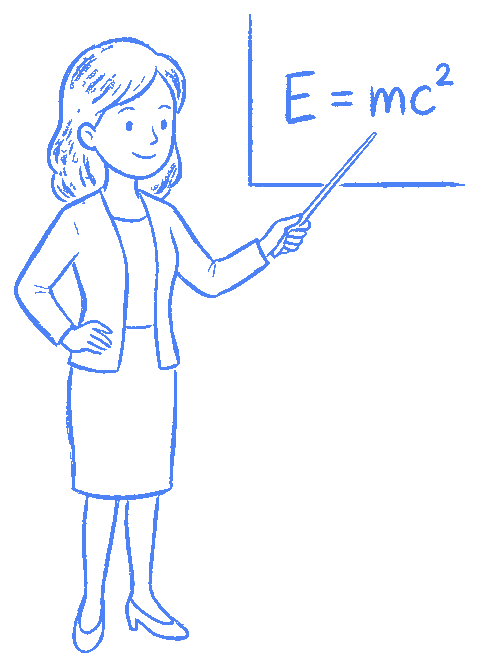
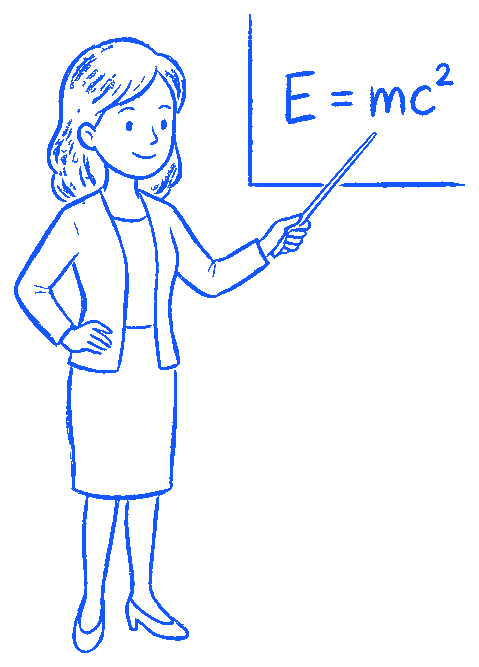
dash-v0.29 · halve observer figs (slides 5/7) + recolour teacher motif to AIS blue #1257FF
Observer .statefig.figtall width clamp halved toward the teacher-motif scale. Teacher PNG recoloured from off-brand #4C82F5 to the approved AIS blue #1257FF (Blue on Star) so it matches the presenter headers (already #1257FF). Story-only.

diff --git a/dashboard/src/index.html b/dashboard/src/index.html
@@ -420,7 +420,7 @@ svg{display:block;overflow:visible}
 .dscount{font-size:19px;font-weight:700;color:var(--ink);font-variant-numeric:tabular-nums;font-family:var(--display);margin-top:4px}
 /* list / statement + insight beats (margin figure PNGs) */
 .statefig{position:absolute;right:clamp(10px,3vw,40px);bottom:clamp(6px,2vw,24px);width:clamp(170px,24vw,280px);height:auto;object-fit:contain;z-index:0;opacity:.95;pointer-events:none}
-.statefig.figtall{width:clamp(120px,16vw,200px);right:clamp(14px,3vw,48px)}
+.statefig.figtall{width:clamp(60px,8vw,100px);right:clamp(14px,3vw,48px)}   /* observer figs (slides 5/7) at half size, closer to the teacher motif scale */
 .beat.on img.statefig{animation:figRise 1s cubic-bezier(.2,.8,.2,1) both}
 @keyframes figRise{from{opacity:0;transform:translateY(22px)}to{opacity:.95;transform:none}}
 .bl-list{display:flex;flex-direction:column;gap:12px;margin-top:18px;max-width:60ch;position:relative;z-index:2}
@@ -709,6 +709,7 @@ body.presenting .mast,body.presenting .themeico{display:none}
     <div class="panel" style="margin-top:14px">
       <div class="ey">Build history</div>
       <div class="vhist">
+        <div class="vrow"><span class="vtag">v0.29</span><span class="vnote">The observer illustration on the two Insights slides (5 and 7) is now half its previous size, closer to the teacher figure on the numbers slide. And the teacher figure, which used a slightly different blue, is recoloured to the approved AIS blue (#1257FF, Blue on Star) so it matches the presenter headers, which were already that blue. Story only.</span></div>
         <div class="vrow"><span class="vtag">v0.28</span><span class="vnote">Autoplay now loops: when the Story reaches the last slide it returns to the first and keeps playing. And fixed blank content after backgrounding the tab and returning (the data-missing, needs-refresh bug, the same as the R3 form): the dashboard now re-renders the current board when the tab is restored, so nothing stays blank and no manual refresh is needed. The open teacher and the story position are kept.</span></div>
         <div class="vrow"><span class="vtag">v0.27</span><span class="vnote">Fixed two Story bugs with one root cause. The freeze-safety cleanup that runs after each beat was wiping the beat’s custom inline styling, not only the animation leftovers, so the slide 4 and 6 headlines jumped from their small size to the large base size on first load, and the slide 4 to 7 headers reverted from green or terracotta to blue while playing. The cleanup now clears only the animation properties, so the custom size and colour are kept. It was never a font problem. The Observations board, which shares the same cleanup, is unaffected.</span></div>
         <div class="vrow"><span class="vtag">v0.26</span><span class="vnote">The Story view was rebuilt to the new illustrated design. The cover is a navy classroom scene, the headline numbers carry pencil motifs (book, teacher, progress), and the What is working, Where to focus and insight beats gain a margin figure, with drifting motes and a per-beat progress bar. Every number still comes live from Supabase (the deduped lessons, teachers, average and distribution) and the wording is unchanged from the Detail view. The data visuals (the dot-sort, gauge and diverging chart) stay. Coverage, Observations and the Detail view are untouched.</span></div>
@@ -743,7 +744,7 @@ body.presenting .mast,body.presenting .themeico{display:none}
 
   <div class="foot">
     <span>AIS Sharjah . Observation governance dashboard . demo build, login-less.</span>
-    <span><span class="badge" id="genBadge">snapshot</span> <span class="badge">Dashboard v0.28</span></span>
+    <span><span class="badge" id="genBadge">snapshot</span> <span class="badge">Dashboard v0.29</span></span>
   </div>
 </div>
 

diff --git a/CLAUDE.md b/CLAUDE.md
@@ -20,7 +20,7 @@ Live: https://rogerceaser21.github.io/Data-Representation/
 ## Dashboard build (Supabase) · active workstream, separate from the forms/deck
 
 A role-based **Supabase-backed dashboard** is being built to aggregate all teacher-assessment data for the principal, governors, and the SEF/SEAS review. It is not the forms and not the deck.
-- **BUILT + DEPLOYED (gated), iterated to v0.28 (2026-06-22); now reads LIVE from Supabase** in `dashboard/` (tag `dash-v0.28`). Live, StatiCrypt-gated (password `ais2026ais`): https://rogerceaser21.github.io/Data-Representation/dashboard/ . Snapshot board (landing) + Coverage + Observations drill-down + Settings; Cinematic shell, light default + dark, AIS star-field. **Scoring (final, do not regress): per observation = best skill (MIN); teacher overall = the average of those per-observation scores** (sessions 6,6,5,5 -> 5.5). v0.7 reworked the Teacher-board session card (approved preview `dashboard-previews/card-A-revised.html`): two collapsible titled columns (Inspection details, Skills observed), full-width Spectrum, a condensed action bar (observed teacher name + centred Observation Notes toggle + text-only link to the locked R3 record, June submissions only since February has no token), and an expander for notes/strengths/areas-to-develop. The snapshot now carries notes/strengths/weakness/source/token. v0.8 refined the card: any click selects it; the Inspection/Skills arrows sit beside their titles, bob, and open BOTH columns together; the session-card Spectrum is a full-width HTML/CSS bar at a fixed thin height (`specHTML`/`animSpec`; a width-scaled SVG read as fat) with judgement words at the body-text size; the column headers match the Observation Notes header. **v0.9 removed the two top centerpiece cards** and merged the Teacher-board top graphs into the All-observations card: the Spectrum and the old All bar were the SAME data (one dot per observation at its best score), so they are now one full-width HTML/CSS Spectrum (`specHTML`, score-coloured dots + average flag + selected-session ring) inside the All card, with the gauge beside it. The gauge is renamed **Student Progress** and shows ONLY the Progress judgement (criterion `r3_02`): rim dots are each observation's Progress score, the fill/word is the teacher-wide average (`progScore`/`progAvg`); it is built once in `renderTeacher` and **never recalculated on session select** (always reads ALL). Selecting a session only rings its dot on the Spectrum; the gauge is untouched. `buildSpec`/`buildObsRamp`/`SEL_COLOR` and the dead `.tcard`/`.cpstage`/`.oramp` CSS were removed. Individual session cards unchanged. **v0.10** tidied the All card (the inspector legend and the Average-of-observations word removed, the Student Progress label bold, the gauge pulled up beside the Spectrum) AND fixed the freeze bug *properly*: v0.9's GSAP-from-invisible entrances plus a `finalizeViz` rescue could still strand the dots/gauge blank after a backgrounded/bfcached tab, so the Spectrum (`.ospec`/`.osbar`) and gauge (`#svgArc`) entrances are now CSS keyframe animations on a resting-visible base. CSS animations run on the real-time document timeline (NOT requestAnimationFrame), so they always complete to the final visible state whether or not the tab was painted; `animSpec` and `finalizeViz` were removed. **Do not reintroduce a from-invisible (`scale:0`/`opacity:0`) JS entrance on these viz elements; keep the resting state visible.** **v0.11** balanced the All card: "All observations" and "Student Progress" are now matched bold headers (`.ey-bold`, in `.allhead`); the gauge `viewBox` is cropped+centred on the circle and `.allmain` uses `align-items:center` so the gauge circle's middle lines up with the Spectrum bar's middle (the Spectrum dots are absolutely positioned, so the bar never moves and the alignment holds regardless of dot stacking); the card height is trimmed. **v0.12-v0.21 (2026-06-18):** v0.13 made the All card symmetric with a **Teaching gauge** (criterion `r3_05`, mirror of the Progress gauge) right of the Spectrum (`buildArc(t,svgId,scoreFn,avgFn,mirror)`); v0.14-v0.15 restyled the All-card Spectrum as the **SEAS scale** (one seamless bar, six swatches + words, no numbers, dots reserve height, bottom-aligned with the gauges; a `segmented` flag on `specHTML` scopes it to the All card, session cards keep the gradient bar); v0.16-v0.17 renamed **Teacher -> Observations** and moved the teacher search off Coverage; v0.18 added **hash routing** (`#teachers`/`#settings`); v0.19 made **R3 Obs a fan-out menu** (Teacher Level = the working search; Grade/Department + School Level = front-end placeholders); v0.20 removed the masthead Stars/theme buttons (kept in Settings) + added a floating top-right sun/moon theme toggle; **v0.21 wired LIVE Supabase read** (see build chain). **v0.22 (2026-06-19) added the Snapshot board, now the LANDING view** (`#v-snapshot`, first pill, default no-hash route; Coverage moved to `#coverage`): a governance at-a-glance of the June R3 sweep (`SNAP_ROUND='R3 June 26'`, scoped to that one round) with a **Primary & Kindy / Secondary / Compare** toggle (`snapPhase`). Per phase it shows lessons observed, teachers seen, average progress (best Progress `r3_02` per teacher then averaged across teachers, best-evidence-wins) on a ramp gauge + a six-point distribution histogram, a What-is-working / Where-to-focus-next summary, and **three insights each** (the baked `NARR` constant, a human synthesis of the round's written strengths + areas-to-develop); Compare adds a diverging PK-vs-Secondary distribution chart + three cross-phase insights. All numbers compute LIVE from `D` via `snapAgg()` (works on baked + live). **`teachers.section` (subschool: kindy/primary/secondary) is now POPULATED in Supabase** from the R3 Sheet Teachers tab (Kindy/Primary/Secondary booleans) via the re-runnable tool `~/AIS-Data-Dashboard/db/set_sections.mjs`, so the phase split is live data, not hard-coded; the export/RPC/`shapeSnapshot` already carried `section`, it was just unpopulated. `data.js` rebaked to match. Verified end-to-end in a browser (both themes, all three modes, through the StatiCrypt gate; numbers verified vs SQL). **v0.23 (2026-06-19) corrected the Snapshot to count distinct LESSONS, not raw form submissions:** most June lessons were co-observed by two inspectors who each filed a form, so the raw 167 rows over-counted. `snapAgg` now collapses a teacher's June submissions into lessons by teacher + date + normalised subject (`lessonSubjKey` via `resolveArea`, folding variants like "Music"/"QCE Music In Practice"), best score winning (min) across co-observers. Corrected counts: overall **109 lessons / 103 teachers**, Primary & Kindy **47/45**, Secondary **62/58**; Secondary **Very Weak = 4** (the v0.22 board showed 8, which was 4 lessons each filed by two inspectors), Outstanding 6. Average ratings + teacher counts are UNCHANGED (best-per-teacher is invariant to duplicates: PK 3.19, Secondary 3.24). The dedupe is ISOLATED to the Snapshot (`snapAgg` + `lessonSubjKey`; it READS but never mutates `D.teachers[].observations`), so per Igor's instruction the **Observations board is untouched** and Coverage is unchanged; a `snapReady` gate fixes the load-order TDZ introduced by `snapAgg` now using `resolveArea`. tag `dash-v0.23`. **v0.24 (2026-06-19) made the Snapshot an animated STORY by default** (the Snapshot is also now the dashboard LANDING page; login always lands there, stale hash cleared). The Snapshot has a **Story | Detail** toggle (`snapView`): Story is a beat-by-beat narrative on a `.stage` (cover, scale with custom Teacher figure-cluster + Observations lens SVGs, progress gauge+distribution, what-is-working bullets + insights, where-to-focus bullets + insights; Compare has its own 4 beats ending on the diverging chart), built to the `look-cinematic.html` motion grammar via a slide engine (`renderStory`/`gotoBeat`/`animateBeat`/`phaseBeats`/`compareBeats`); it **auto-plays with play/pause, prev/next + arrow keys, beat dots, full-screen Present, and a persisted Auto-play on/off switch in Settings** (`ais-snap-autoplay`). **Detail is the PREVIOUS card view, kept verbatim as v1**, one click away (`renderDetail`). Per Igor: this is all isolated to the Snapshot (the slide engine reads but never mutates `D.teachers[].observations`); **Coverage and Observations stay untouched, and Coverage is "designed, do not touch".** rAF-safe (active beat shown via a CSS `.on` class at final state; entrances are `immediateRender:false` + `settle()`). **v0.25 (2026-06-20) rebuilt the Story so the DATA carries the animation, not illustrations** (Igor rejected v0.24's hand-drawn SVGs and invented narration). Removed the teacher-cluster + eye SVGs. Hero motion is now a **SEAS dot-sort** (`renderDotSort`): each lesson is a dot that flies in (CSS keyframes, rAF-safe) and sorts onto the six-point scale by colour, beside the gauge sweep; the numbers beat is big count-ups; the cover uses a generated AIS-toned image (`dashboard/assets/snapshot-cover.jpg`, public, non-sensitive). **The beats use ONLY the V1 (Detail) wording + stats verbatim** (the V1 section labels, evidence lines, summaries, bullets, insights), no invented copy. Beats per phase: cover, numbers, student-progress (dot-sort + gauge), what-is-working bullets + its insights, where-to-focus bullets + its insights; Compare: cover, numbers, distribution (diverging), insights. Controls + Detail(v1) + scope unchanged from v0.24. Built consulting the **frontend-slides** skill. (Note: DesignSync/"design-sync" is a publish-to-claude.ai/design sync tool, NOT a design generator; the look is hand-built to dashboard-aesthetic. Bespoke decorative SVG illustration is a known weak spot, hence the dot-sort + generated image approach.) **v0.26 (2026-06-21) restyled the Story to Igor's illustrated Claude-design rework** (stitched into the master, wired to LIVE data): a navy classroom cover, recoloured pencil-PNG motifs on the numbers tiles, quiet margin figures on the statement + insight beats, drifting motes, a per-beat progress bar, and big colour-coded presenter headers. It uses ONLY the live `snapAgg(phase)` numbers (the standalone's frozen `AGG` was dropped) + the existing baked `NARR` wording (V1 verbatim); the dot-sort / gauge / diverging data visuals are kept; the gauge stays freeze-safe (no from-empty GSAP sweep). The Fonts link is now `display=block` to kill the serif headline flash. Isolated to the Snapshot Story: Detail (v1), Coverage and Observations untouched. (WIP checkpoint: Igor has further design changes queued for 2026-06-22; moving the insight TEXT into Supabase, vs the baked `NARR`, is a deliberate next step, not done here.) **v0.27 (2026-06-22) fixed two reported Story bugs with one root cause:** the freeze-safety helper `settle()` used `clearProps:'all'`, which wiped the beats' hand-authored inline styles (not just GSAP's props) about 1.9s after each beat, so the `.beat-h` summary jumped from its inline `clamp(18-25px)` to the base 42px (the first-load small-to-big reflow on slides 4/6) and the `.beat-k` kicker reverted from green/terracotta to base blue (the in-play colour change on slides 4-7). It read as first-load-only because the strip is permanent until re-render. Fix: `settle()` now clears ONLY `transform,opacity,filter` (the props GSAP animates), preserving freeze-safety AND the author inline size/colour; NOT a webfont issue (display=block/preload could never fix it). Verified the Story (both themes) + the Observations board (which shares `settle()`) with no console errors (tag `dash-v0.27`). **v0.28 (2026-06-22)** made Story autoplay LOOP (wraps to beat 0 at the end via `scheduleNext`) and fixed the "background the tab, come back, some viz blank, needs refresh" bug (same class as the R3 form bfcache issue, hard rule 12): a new `repaintRestore()` re-renders the CURRENT board at final state on `pageshow`(persisted) + `visibilitychange`->visible, preserving the open teacher + the story position (mirrors `loadLive`'s re-render set; no state reset, no reload). Verified a deliberately blanked teacher gauge repaints on restore (tag `dash-v0.28`). Login-less for the demo (the gate is the soft lock); @ais.ae SSO + per-role RLS, and a general multi-round selector for the other boards (Coverage/Observations still pool all rounds), are the next steps.
+- **BUILT + DEPLOYED (gated), iterated to v0.29 (2026-06-22); now reads LIVE from Supabase** in `dashboard/` (tag `dash-v0.29`). Live, StatiCrypt-gated (password `ais2026ais`): https://rogerceaser21.github.io/Data-Representation/dashboard/ . Snapshot board (landing) + Coverage + Observations drill-down + Settings; Cinematic shell, light default + dark, AIS star-field. **Scoring (final, do not regress): per observation = best skill (MIN); teacher overall = the average of those per-observation scores** (sessions 6,6,5,5 -> 5.5). v0.7 reworked the Teacher-board session card (approved preview `dashboard-previews/card-A-revised.html`): two collapsible titled columns (Inspection details, Skills observed), full-width Spectrum, a condensed action bar (observed teacher name + centred Observation Notes toggle + text-only link to the locked R3 record, June submissions only since February has no token), and an expander for notes/strengths/areas-to-develop. The snapshot now carries notes/strengths/weakness/source/token. v0.8 refined the card: any click selects it; the Inspection/Skills arrows sit beside their titles, bob, and open BOTH columns together; the session-card Spectrum is a full-width HTML/CSS bar at a fixed thin height (`specHTML`/`animSpec`; a width-scaled SVG read as fat) with judgement words at the body-text size; the column headers match the Observation Notes header. **v0.9 removed the two top centerpiece cards** and merged the Teacher-board top graphs into the All-observations card: the Spectrum and the old All bar were the SAME data (one dot per observation at its best score), so they are now one full-width HTML/CSS Spectrum (`specHTML`, score-coloured dots + average flag + selected-session ring) inside the All card, with the gauge beside it. The gauge is renamed **Student Progress** and shows ONLY the Progress judgement (criterion `r3_02`): rim dots are each observation's Progress score, the fill/word is the teacher-wide average (`progScore`/`progAvg`); it is built once in `renderTeacher` and **never recalculated on session select** (always reads ALL). Selecting a session only rings its dot on the Spectrum; the gauge is untouched. `buildSpec`/`buildObsRamp`/`SEL_COLOR` and the dead `.tcard`/`.cpstage`/`.oramp` CSS were removed. Individual session cards unchanged. **v0.10** tidied the All card (the inspector legend and the Average-of-observations word removed, the Student Progress label bold, the gauge pulled up beside the Spectrum) AND fixed the freeze bug *properly*: v0.9's GSAP-from-invisible entrances plus a `finalizeViz` rescue could still strand the dots/gauge blank after a backgrounded/bfcached tab, so the Spectrum (`.ospec`/`.osbar`) and gauge (`#svgArc`) entrances are now CSS keyframe animations on a resting-visible base. CSS animations run on the real-time document timeline (NOT requestAnimationFrame), so they always complete to the final visible state whether or not the tab was painted; `animSpec` and `finalizeViz` were removed. **Do not reintroduce a from-invisible (`scale:0`/`opacity:0`) JS entrance on these viz elements; keep the resting state visible.** **v0.11** balanced the All card: "All observations" and "Student Progress" are now matched bold headers (`.ey-bold`, in `.allhead`); the gauge `viewBox` is cropped+centred on the circle and `.allmain` uses `align-items:center` so the gauge circle's middle lines up with the Spectrum bar's middle (the Spectrum dots are absolutely positioned, so the bar never moves and the alignment holds regardless of dot stacking); the card height is trimmed. **v0.12-v0.21 (2026-06-18):** v0.13 made the All card symmetric with a **Teaching gauge** (criterion `r3_05`, mirror of the Progress gauge) right of the Spectrum (`buildArc(t,svgId,scoreFn,avgFn,mirror)`); v0.14-v0.15 restyled the All-card Spectrum as the **SEAS scale** (one seamless bar, six swatches + words, no numbers, dots reserve height, bottom-aligned with the gauges; a `segmented` flag on `specHTML` scopes it to the All card, session cards keep the gradient bar); v0.16-v0.17 renamed **Teacher -> Observations** and moved the teacher search off Coverage; v0.18 added **hash routing** (`#teachers`/`#settings`); v0.19 made **R3 Obs a fan-out menu** (Teacher Level = the working search; Grade/Department + School Level = front-end placeholders); v0.20 removed the masthead Stars/theme buttons (kept in Settings) + added a floating top-right sun/moon theme toggle; **v0.21 wired LIVE Supabase read** (see build chain). **v0.22 (2026-06-19) added the Snapshot board, now the LANDING view** (`#v-snapshot`, first pill, default no-hash route; Coverage moved to `#coverage`): a governance at-a-glance of the June R3 sweep (`SNAP_ROUND='R3 June 26'`, scoped to that one round) with a **Primary & Kindy / Secondary / Compare** toggle (`snapPhase`). Per phase it shows lessons observed, teachers seen, average progress (best Progress `r3_02` per teacher then averaged across teachers, best-evidence-wins) on a ramp gauge + a six-point distribution histogram, a What-is-working / Where-to-focus-next summary, and **three insights each** (the baked `NARR` constant, a human synthesis of the round's written strengths + areas-to-develop); Compare adds a diverging PK-vs-Secondary distribution chart + three cross-phase insights. All numbers compute LIVE from `D` via `snapAgg()` (works on baked + live). **`teachers.section` (subschool: kindy/primary/secondary) is now POPULATED in Supabase** from the R3 Sheet Teachers tab (Kindy/Primary/Secondary booleans) via the re-runnable tool `~/AIS-Data-Dashboard/db/set_sections.mjs`, so the phase split is live data, not hard-coded; the export/RPC/`shapeSnapshot` already carried `section`, it was just unpopulated. `data.js` rebaked to match. Verified end-to-end in a browser (both themes, all three modes, through the StatiCrypt gate; numbers verified vs SQL). **v0.23 (2026-06-19) corrected the Snapshot to count distinct LESSONS, not raw form submissions:** most June lessons were co-observed by two inspectors who each filed a form, so the raw 167 rows over-counted. `snapAgg` now collapses a teacher's June submissions into lessons by teacher + date + normalised subject (`lessonSubjKey` via `resolveArea`, folding variants like "Music"/"QCE Music In Practice"), best score winning (min) across co-observers. Corrected counts: overall **109 lessons / 103 teachers**, Primary & Kindy **47/45**, Secondary **62/58**; Secondary **Very Weak = 4** (the v0.22 board showed 8, which was 4 lessons each filed by two inspectors), Outstanding 6. Average ratings + teacher counts are UNCHANGED (best-per-teacher is invariant to duplicates: PK 3.19, Secondary 3.24). The dedupe is ISOLATED to the Snapshot (`snapAgg` + `lessonSubjKey`; it READS but never mutates `D.teachers[].observations`), so per Igor's instruction the **Observations board is untouched** and Coverage is unchanged; a `snapReady` gate fixes the load-order TDZ introduced by `snapAgg` now using `resolveArea`. tag `dash-v0.23`. **v0.24 (2026-06-19) made the Snapshot an animated STORY by default** (the Snapshot is also now the dashboard LANDING page; login always lands there, stale hash cleared). The Snapshot has a **Story | Detail** toggle (`snapView`): Story is a beat-by-beat narrative on a `.stage` (cover, scale with custom Teacher figure-cluster + Observations lens SVGs, progress gauge+distribution, what-is-working bullets + insights, where-to-focus bullets + insights; Compare has its own 4 beats ending on the diverging chart), built to the `look-cinematic.html` motion grammar via a slide engine (`renderStory`/`gotoBeat`/`animateBeat`/`phaseBeats`/`compareBeats`); it **auto-plays with play/pause, prev/next + arrow keys, beat dots, full-screen Present, and a persisted Auto-play on/off switch in Settings** (`ais-snap-autoplay`). **Detail is the PREVIOUS card view, kept verbatim as v1**, one click away (`renderDetail`). Per Igor: this is all isolated to the Snapshot (the slide engine reads but never mutates `D.teachers[].observations`); **Coverage and Observations stay untouched, and Coverage is "designed, do not touch".** rAF-safe (active beat shown via a CSS `.on` class at final state; entrances are `immediateRender:false` + `settle()`). **v0.25 (2026-06-20) rebuilt the Story so the DATA carries the animation, not illustrations** (Igor rejected v0.24's hand-drawn SVGs and invented narration). Removed the teacher-cluster + eye SVGs. Hero motion is now a **SEAS dot-sort** (`renderDotSort`): each lesson is a dot that flies in (CSS keyframes, rAF-safe) and sorts onto the six-point scale by colour, beside the gauge sweep; the numbers beat is big count-ups; the cover uses a generated AIS-toned image (`dashboard/assets/snapshot-cover.jpg`, public, non-sensitive). **The beats use ONLY the V1 (Detail) wording + stats verbatim** (the V1 section labels, evidence lines, summaries, bullets, insights), no invented copy. Beats per phase: cover, numbers, student-progress (dot-sort + gauge), what-is-working bullets + its insights, where-to-focus bullets + its insights; Compare: cover, numbers, distribution (diverging), insights. Controls + Detail(v1) + scope unchanged from v0.24. Built consulting the **frontend-slides** skill. (Note: DesignSync/"design-sync" is a publish-to-claude.ai/design sync tool, NOT a design generator; the look is hand-built to dashboard-aesthetic. Bespoke decorative SVG illustration is a known weak spot, hence the dot-sort + generated image approach.) **v0.26 (2026-06-21) restyled the Story to Igor's illustrated Claude-design rework** (stitched into the master, wired to LIVE data): a navy classroom cover, recoloured pencil-PNG motifs on the numbers tiles, quiet margin figures on the statement + insight beats, drifting motes, a per-beat progress bar, and big colour-coded presenter headers. It uses ONLY the live `snapAgg(phase)` numbers (the standalone's frozen `AGG` was dropped) + the existing baked `NARR` wording (V1 verbatim); the dot-sort / gauge / diverging data visuals are kept; the gauge stays freeze-safe (no from-empty GSAP sweep). The Fonts link is now `display=block` to kill the serif headline flash. Isolated to the Snapshot Story: Detail (v1), Coverage and Observations untouched. (WIP checkpoint: Igor has further design changes queued for 2026-06-22; moving the insight TEXT into Supabase, vs the baked `NARR`, is a deliberate next step, not done here.) **v0.27 (2026-06-22) fixed two reported Story bugs with one root cause:** the freeze-safety helper `settle()` used `clearProps:'all'`, which wiped the beats' hand-authored inline styles (not just GSAP's props) about 1.9s after each beat, so the `.beat-h` summary jumped from its inline `clamp(18-25px)` to the base 42px (the first-load small-to-big reflow on slides 4/6) and the `.beat-k` kicker reverted from green/terracotta to base blue (the in-play colour change on slides 4-7). It read as first-load-only because the strip is permanent until re-render. Fix: `settle()` now clears ONLY `transform,opacity,filter` (the props GSAP animates), preserving freeze-safety AND the author inline size/colour; NOT a webfont issue (display=block/preload could never fix it). Verified the Story (both themes) + the Observations board (which shares `settle()`) with no console errors (tag `dash-v0.27`). **v0.28 (2026-06-22)** made Story autoplay LOOP (wraps to beat 0 at the end via `scheduleNext`) and fixed the "background the tab, come back, some viz blank, needs refresh" bug (same class as the R3 form bfcache issue, hard rule 12): a new `repaintRestore()` re-renders the CURRENT board at final state on `pageshow`(persisted) + `visibilitychange`->visible, preserving the open teacher + the story position (mirrors `loadLive`'s re-render set; no state reset, no reload). Verified a deliberately blanked teacher gauge repaints on restore (tag `dash-v0.28`). **v0.29 (2026-06-22)** halved the observer figures on the Insights beats (slides 5/7, `.statefig.figtall`) toward the teacher-motif scale, and recoloured the teacher motif PNG from its off-brand #4C82F5 to the approved AIS blue #1257FF ("Blue on Star", from the AIS Approved Colours sheet) so it matches the presenter headers (which were already #1257FF). Story-only (tag `dash-v0.29`). Login-less for the demo (the gate is the soft lock); @ais.ae SSO + per-role RLS, and a general multi-round selector for the other boards (Coverage/Observations still pool all rounds), are the next steps.
 - Architecture (data, auth, schema, boards, attendance): `.planning/2026-06-12-dashboard-architecture-DECISIONS.md`
 - Design + motion (Cinematic, LIGHT default, AIS star-field, 6-point SEAS scale, Spectrum/Arc/matrix): `.planning/2026-06-15-dashboard-design-DECISIONS.md`
 - Living spec, open in a browser: `dashboard-previews/design-spec.html`
@@ -81,7 +81,7 @@ Data-Representation/                          github.com/Rogerceaser21/Data-Repr
 │   ├── v0.10-r3-form-checklist.md            multi-phase plan + acceptance criteria + IDs
 │   ├── 2026-06-11-moderation-and-dashboard-plan.md   Jobs 0-3 (Job 0 + Job 1 done)
 │   └── 2026-06-12-dashboard-architecture-DECISIONS.md  AUTHORITATIVE grill record (Q1-Q11) for the Supabase dashboard
-├── dashboard/                                 LIVE gated dashboard, Snapshot landing (tag dash-v0.28)
+├── dashboard/                                 LIVE gated dashboard, Snapshot landing (tag dash-v0.29)
 │   ├── index.html                             ENCRYPTED deploy artifact (StatiCrypt, data inlined) · generated, never hand-edit
 │   ├── src/index.html                         MASTER · edit this · Snapshot (Story + Detail) + Coverage + Observations + Settings
 │   ├── data.js                                GITIGNORED baked Supabase snapshot (window.__AIS_DATA) · real names+ratings, never to Pages

diff --git a/dashboard/CHANGELOG.md b/dashboard/CHANGELOG.md
@@ -5,6 +5,10 @@ the Settings "Build history" panel, appends an entry here, and is git-tagged
 `dash-vX.Y` so any version can be restored. Live (gated, password `ais2026ais`):
 https://rogerceaser21.github.io/Data-Representation/dashboard/
 
+## v0.29 . 2026-06-22
+- **Observer figures resized + teacher motif recoloured to the AIS blue.** The observer illustration on the two Insights beats (slides 5 and 7) is now half its previous size, closer to the teacher motif's scale (`.statefig.figtall` width clamp halved). The teacher motif on the numbers beat used a different blue (#4C82F5) than the headers; it is recoloured to the approved AIS blue #1257FF ("Blue on Star", from the AIS Approved Colours sheet), so the motif and the headers now match and are on-brand. The presenter headers were already #1257FF, so they are unchanged.
+- Rollback: `dash-v0.28`.
+
 ## v0.28 . 2026-06-22
 - **Autoplay now loops.** When the Story reaches the last beat it returns to the first beat and keeps playing, instead of stopping. `scheduleNext()` wraps `storyIdx` to 0 at the end. Pause, step and Present are unchanged.
 - **Fixed blank content after the tab is backgrounded and restored** (the "go away and come back, some data is missing, needs a refresh" bug, the same class as the R3 form's bfcache issue). A backgrounded or bfcached tab can freeze an entrance mid-animation or restore stale, leaving a viz blank. A new restore handler re-renders the CURRENT board at final state on `pageshow` (bfcache restore) and on `visibilitychange` to visible, preserving the open teacher and the story position. No manual refresh needed.